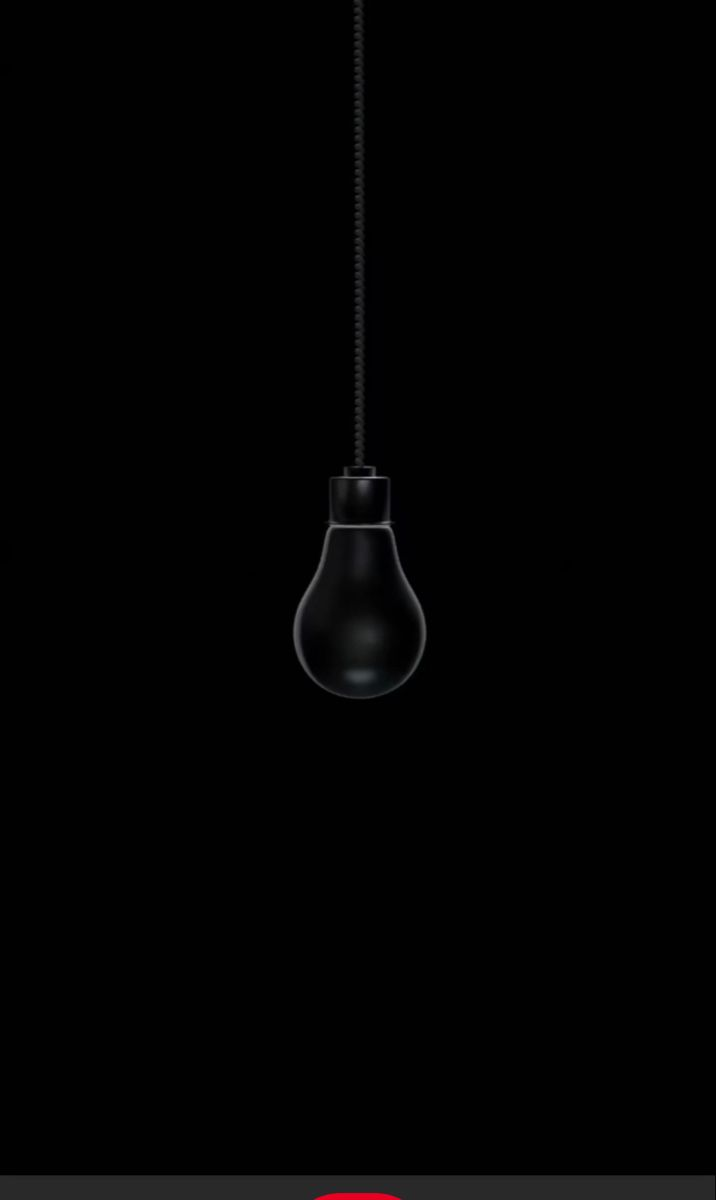
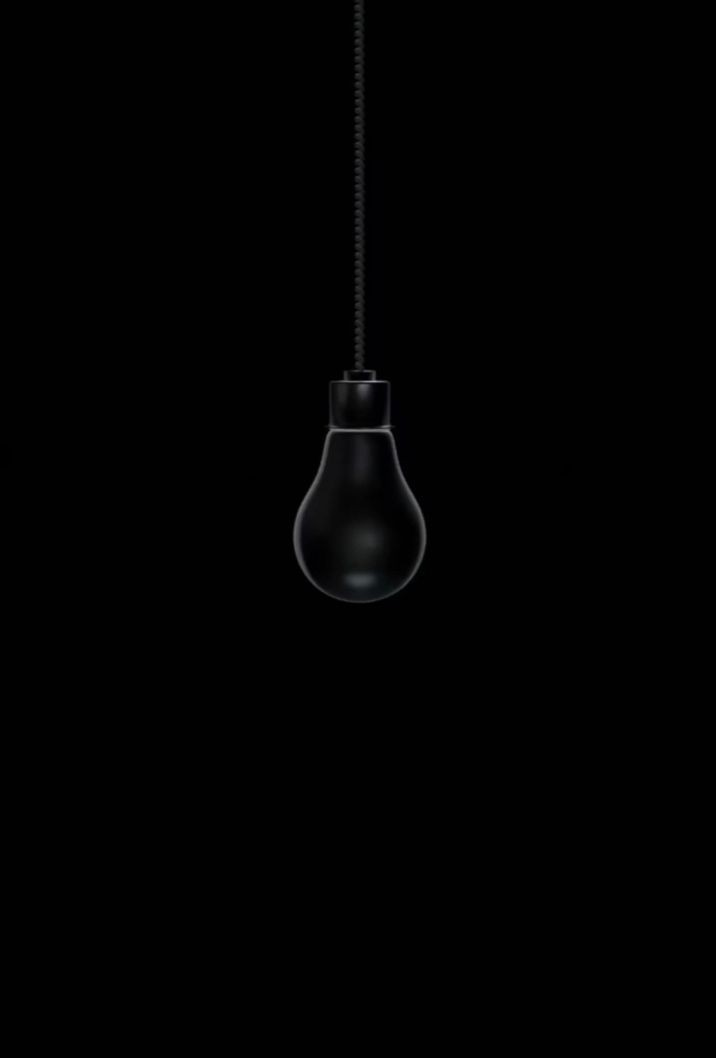
organização de imagem e funções

Changed region(s): [[0.0, 0.9669, 1.0, 1.0], [0.3994, 0.3431, 0.6145, 0.5926]]

diff --git a/projeto.js b/projeto.js
@@ -1,20 +1,27 @@
 //quantidade inicial para definir se ta desligado ou ligado
 let definidorLigaDesliga = "desliga";
 let lampada = document.getElementById("lampadaApagada");
+let interruptor = document.getElementById("InterruptorDesligado");
+let instagram = document.getElementById("instagram");
 function ligarDesligarLampada() {
   //responsavel por ligar a lampada
+
   if (definidorLigaDesliga == "liga") {
     definidorLigaDesliga = "desliga";
 
     console.log("ligado");
-
-    lampada.src = "assets/lampadaLigada.jpg"
-
+    interruptor.src = "assets/InterruptorLigado.jpg";
+    lampada.src = "assets/lampadaLigada.jpg";
+    instagram.style.display="block";
     //responsavel por desligar a lampada
-  } else  {
+  } else {
     definidorLigaDesliga = "liga";
     console.log("desliga");
+    
+    interruptor.src = "assets/InterruptorDesligado.jpg";
+    
 
     lampada.src = "assets/lampadaApagada.jpg";
-  } 
+    instagram.style.display = "none";
+  }
 }

diff --git a/index.html b/index.html
@@ -8,12 +8,15 @@
   </head>
   <body>
     <div id="InterruptorClicavel">
-      <img
-        src="assets\InterruptorDesligado.jpg"
-        alt=""
-        id="InterruptorDesligado"
-        onclick="ligarDesligarLampada()"
-      /><img src="assets\lampadaApagada.jpg" alt="" id="lampadaApagada" />
+      <div>
+        <img
+          src="assets\InterruptorDesligado.jpg"
+          alt=""
+          id="InterruptorDesligado"
+          onclick="ligarDesligarLampada()"
+        /><img src="assets\lampadaApagada.jpg" alt="" id="lampadaApagada" />
+        <footer id="instagram"><a href="https://www.instagram.com/cailloufco/" target="_blank"><strong>@cailloufco</strong></a></footer>
+      </div>
     </div>
 
     <script src="projeto.js"></script>

diff --git a/projeto.css b/projeto.css
@@ -1,19 +1,37 @@
 body {
   background-color: black;
-}#InterruptorClicavel {
-  width: 50px;
+  margin: 0;
+}
+#InterruptorClicavel {
   display: flex;
   align-items: center;
-  
-}#InterruptorDesligado{
-    width: 50px;
-    cursor: pointer;
-    margin-left: 250px;
+  margin: auto;
+  justify-content: center;
+}
+#InterruptorDesligado {
+  width: 57px;
+  cursor: pointer;
+  margin: 0 auto;
+  margin-bottom: 400px;
 }
 #lampadaApagada {
-  width: 350px;
-  margin-left: 50px;
-
-
+  width: 500px;
+  flex-direction: column;
 }
-
+footer {
+  color: white;
+  position: absolute;
+  bottom: 40%;
+  left: 48%;
+  
+  
+}footer a{
+  
+  color: darkblue;
+  font: normal 13pt Courier;
+  
+}
+#instagram{
+  display: none;
+  
+}
